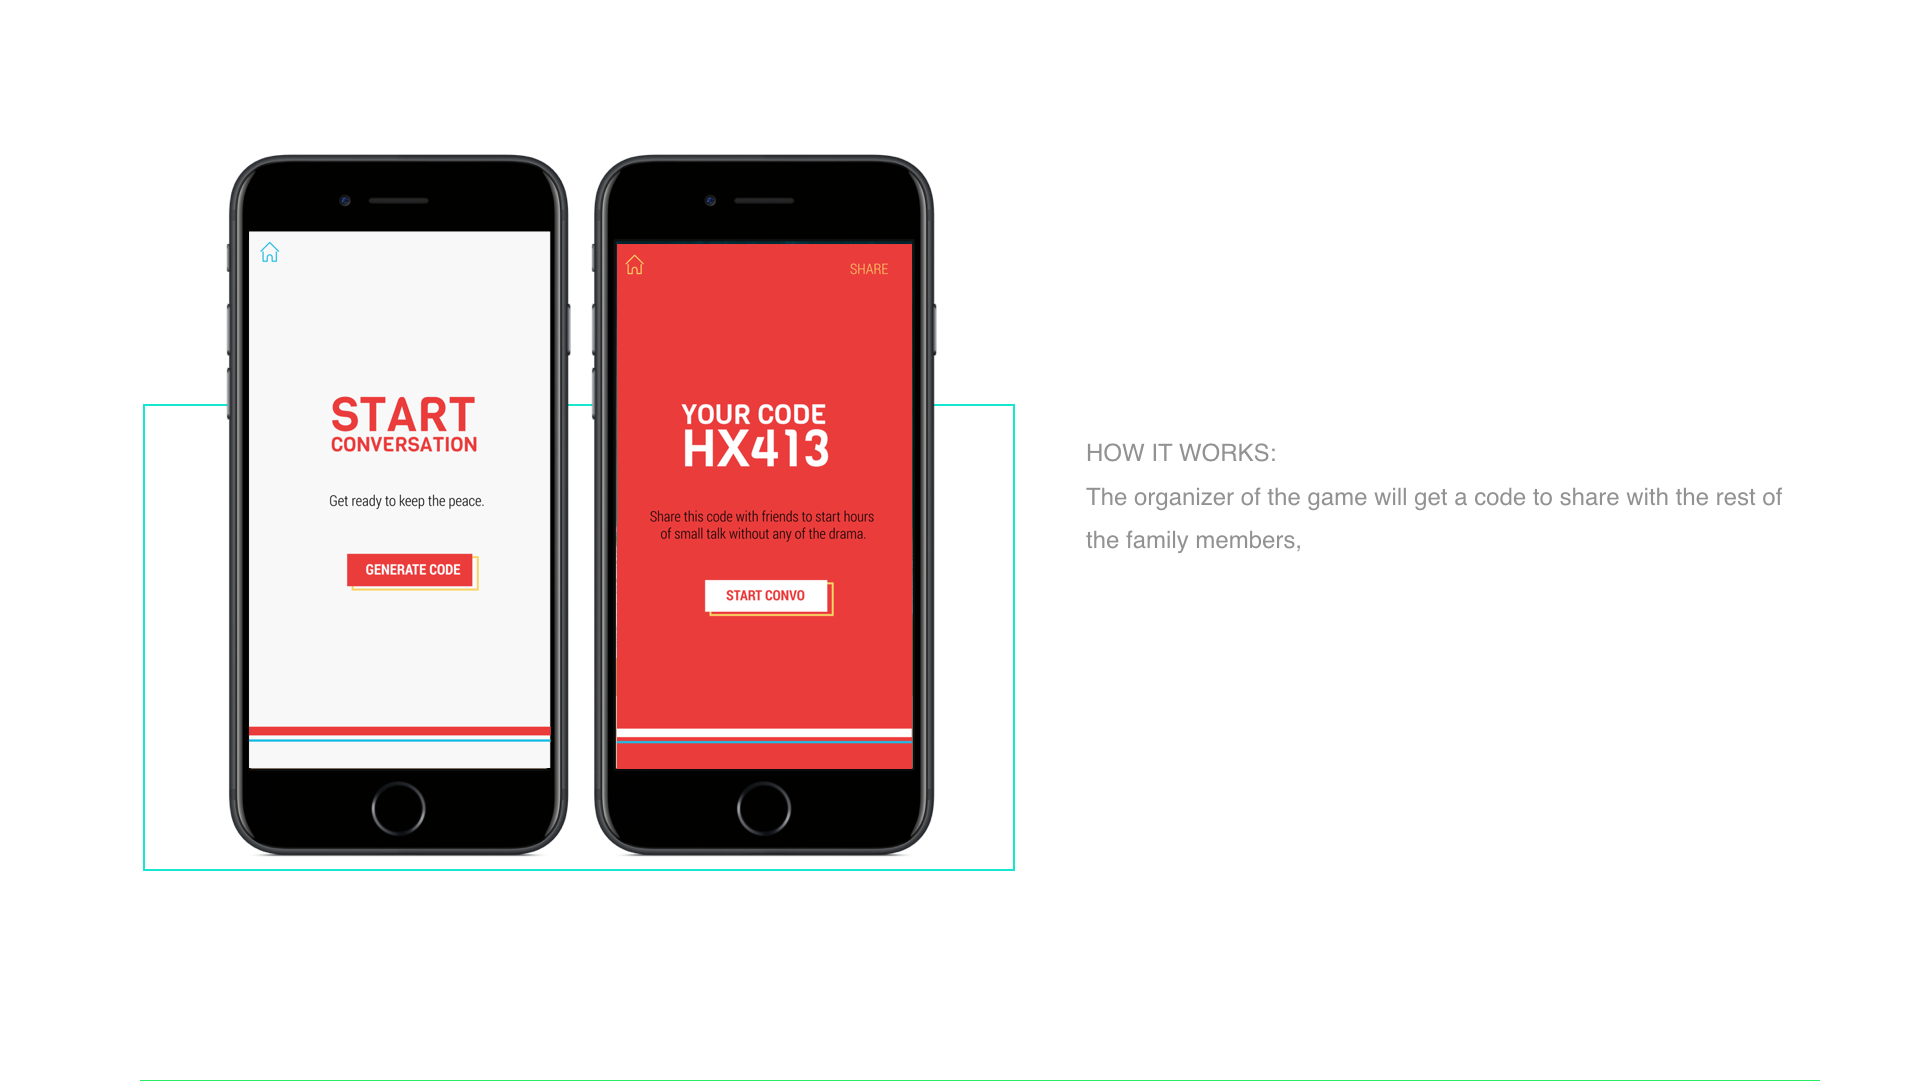
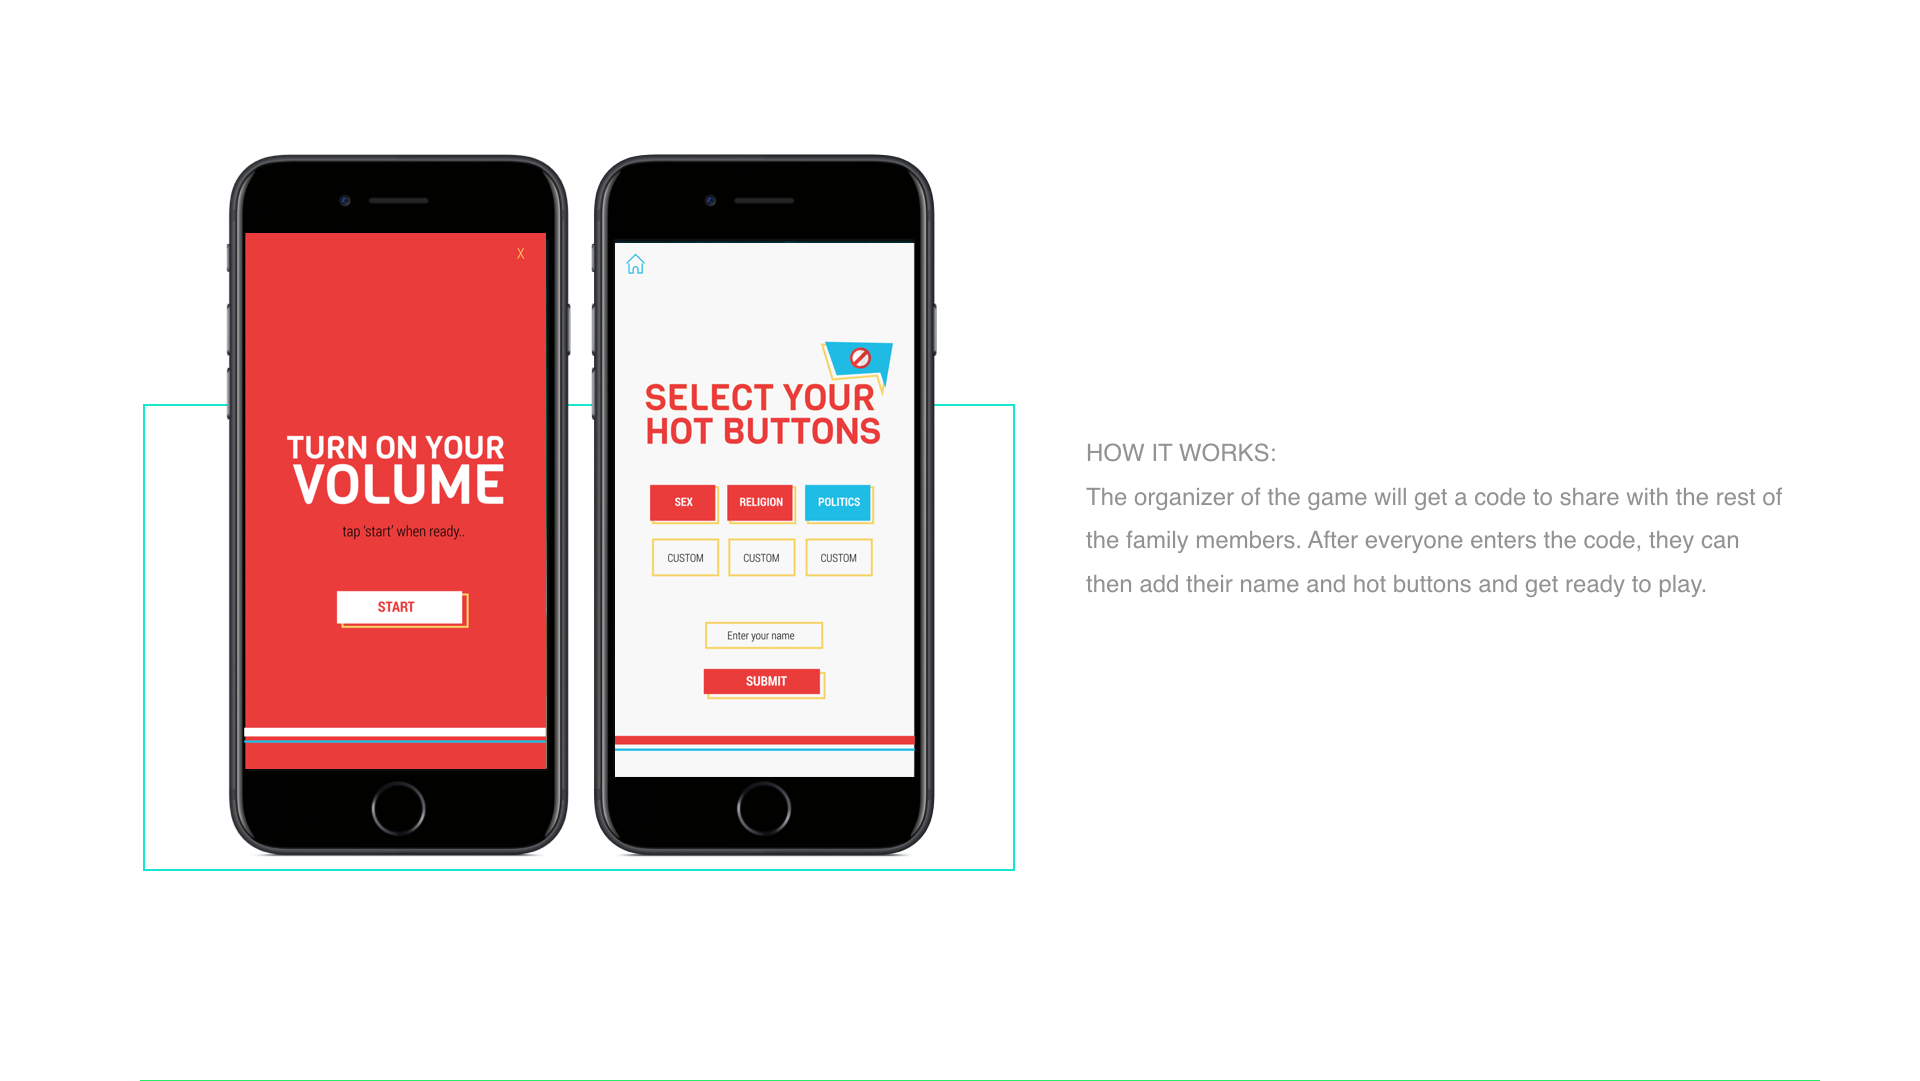
Correction on images in anything but game section

Changed region(s): [[0.125, 0.2137, 0.5, 0.7327], [0.5625, 0.4884, 0.9062, 0.5495]]

diff --git a/public/index.html b/public/index.html
@@ -202,7 +202,7 @@
 
 						<div class="portfolio-item-thumbnail">
 
-							<img src="images/work/anything_2.jpg" alt="">
+							<img src="images/work/anything.jpg" alt="">
 
 							<div class="portfolio-item-hover" data-fancybox data-src="anything_but.html" href="javascript:;">
 

diff --git a/public/anything_but.html b/public/anything_but.html
@@ -123,12 +123,6 @@
 
         </div>
 
-        <div class="col-md-12" id="workSectionPadding">
-
-            <img src="images/work/anything_but/anything_7.png" alt="">
-
-        </div>
-
     </div><!-- PAGE CONTENT -->
 
 </div><!-- MAIN CONTAINER -->
